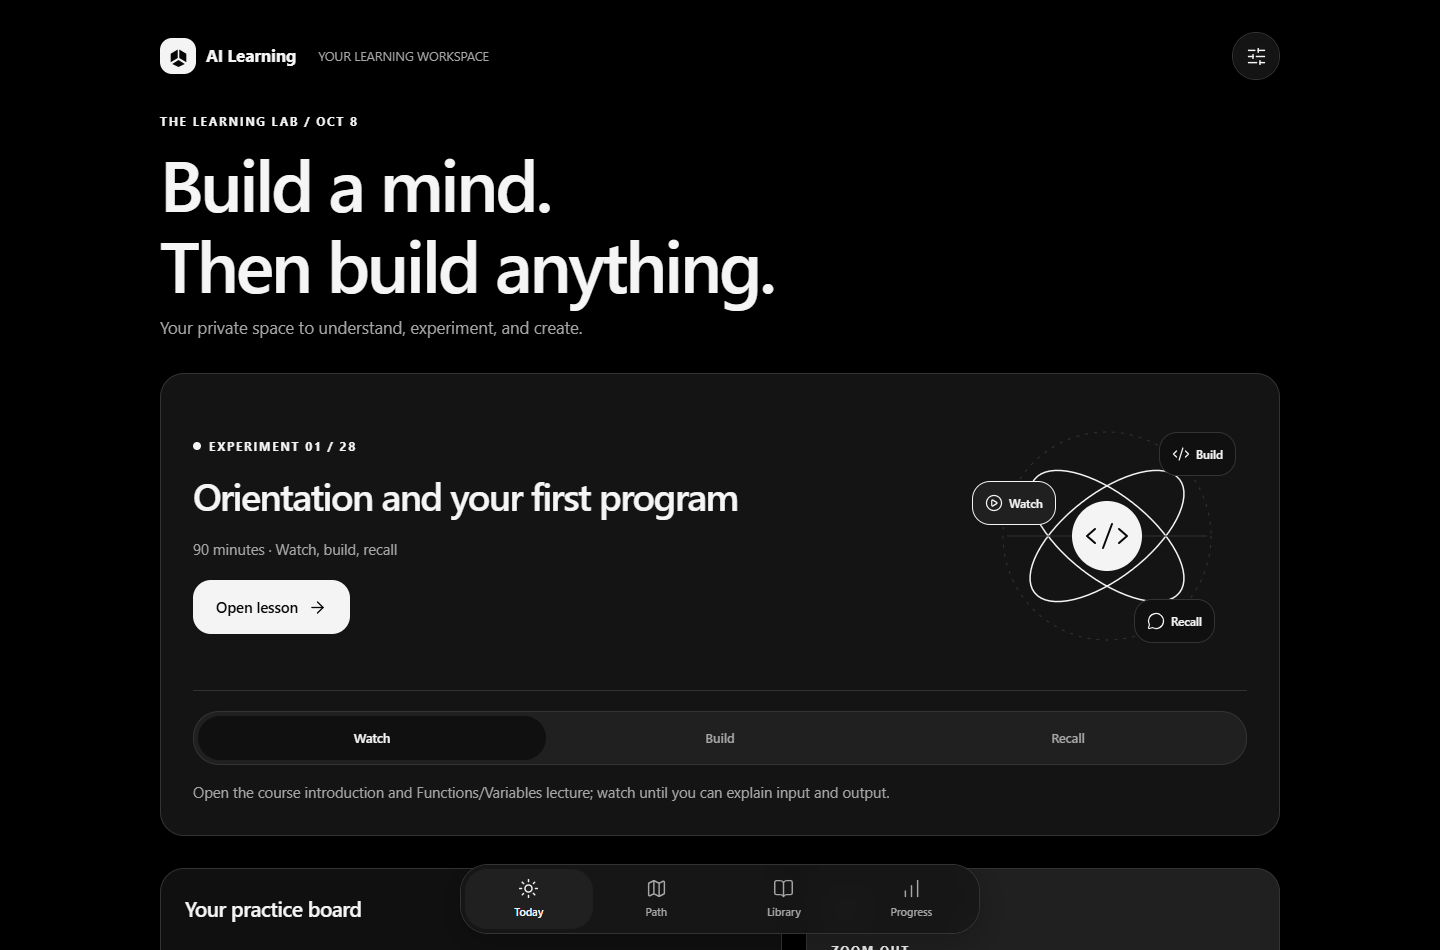
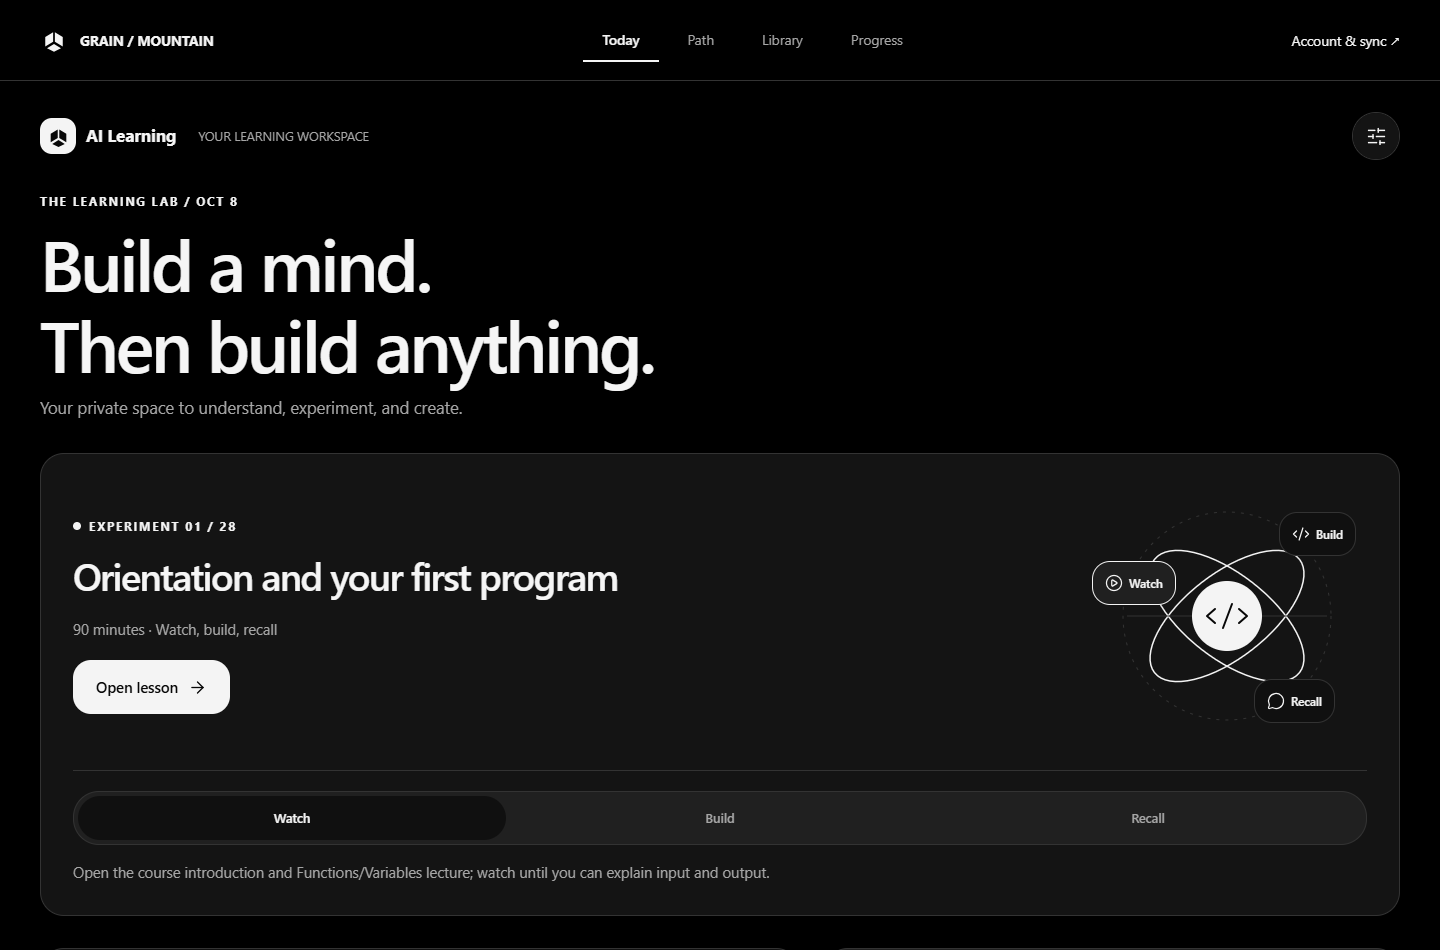
feat(web): add desktop navigation and refined account layout

diff --git a/learning-companion/src/app/account.tsx b/learning-companion/src/app/account.tsx
@@ -1,13 +1,15 @@
 import {useState} from 'react';
-import {TextInput,View} from 'react-native';
+import {TextInput,View,Pressable} from 'react-native';
 import {router} from 'expo-router';
-import {Button,Panel,Screen,Txt,inputStyle,usePalette} from '../components/ui';
+import {Button,Panel,Txt,inputStyle,usePalette} from '../components/ui';
+import {AccountLayout} from '../components/account-layout';
 import {useAuth} from '../lib/auth';
 import {supabase,accountRedirect} from '../lib/supabase';
 import {useLearning} from '../lib/store';
 export default function Account(){
  const c=usePalette(),auth=useAuth(),learning=useLearning();
  const [mode,setMode]=useState<'signin'|'signup'|'reset'>('signin'),[email,setEmail]=useState(''),[password,setPassword]=useState(''),[busy,setBusy]=useState(false),[message,setMessage]=useState(''),[confirm,setConfirm]=useState(false);
+ const [showPassword,setShowPassword]=useState(false);
  const run=async(action:()=>Promise<void>)=>{setBusy(true);setMessage('');try{await action();}catch(e){setMessage(e instanceof Error?e.message:'The request failed. Please try again.');}finally{setBusy(false);}};
  const submit=()=>run(async()=>{
   if(!supabase)throw new Error('Accounts are not connected yet. Your local notebook still works.');
@@ -18,7 +20,7 @@ export default function Account(){
   if(mode==='signup'){const {data,error}=await supabase.auth.signUp({email:email.trim(),password,options:{emailRedirectTo:accountRedirect}});if(error)throw error;setPassword('');if(data.session)router.replace('/today');else setMessage('Check your email to confirm your account, then sign in.');}
   else{const {error}=await supabase.auth.signInWithPassword({email:email.trim(),password});if(error)throw error;setPassword('');router.replace('/today');}
  });
- return <Screen back action={false} title={auth.session&&!auth.recovery?'Your account':auth.recovery?'Choose a new password':mode==='signup'?'A place for your progress.':mode==='reset'?'Reset your password.':'Pick up where you left off.'} subtitle="Your notebook, connected across devices.">
+ return <AccountLayout title={auth.session&&!auth.recovery?'Your account':auth.recovery?'Choose a new password':mode==='signup'?'Create your account':mode==='reset'?'Reset your password':'Welcome back'} subtitle={mode==='signup'?'Start a notebook for your learning journey.':'Pick up your learning where you left off.'}>
  {!supabase&&<Panel><Txt weight="600">Accounts are being connected</Txt><Txt>The sign-in service is not configured yet. Continue with your local notebook; existing progress is preserved.</Txt><Button title="Continue locally" onPress={()=>router.replace('/today')}/></Panel>}
  {!!auth.error&&<Txt accessibilityRole="alert">{auth.error}</Txt>}
  {auth.session&&!auth.recovery?<>
@@ -28,11 +30,11 @@ export default function Account(){
  <Button title="Sign out on this device" secondary disabled={busy} onPress={()=>void run(async()=>{const {error}=await supabase!.auth.signOut({scope:'local'});if(error)throw error;router.replace('/today');})}/><Txt size={13} color={c.muted}>Unsynced edits remain in this account’s local notebook. Sign back in on this device to retry.</Txt>
  </>:<Panel>
  {!auth.recovery&&<View style={{gap:8}}><Txt size={14}>Email</Txt><TextInput accessibilityLabel="Email" autoCapitalize="none" autoCorrect={false} keyboardType="email-address" autoComplete="email" value={email} onChangeText={setEmail} style={inputStyle(c)}/></View>}
- {(mode!=='reset'||auth.recovery)&&<View style={{gap:8}}><Txt size={14}>{auth.recovery?'New password':'Password'}</Txt><TextInput accessibilityLabel="Password" secureTextEntry autoCapitalize="none" autoComplete={mode==='signin'?'current-password':'new-password'} value={password} onChangeText={setPassword} style={inputStyle(c)} onSubmitEditing={()=>void submit()}/></View>}
+ {(mode!=='reset'||auth.recovery)&&<View style={{gap:8}}><View style={{flexDirection:'row',justifyContent:'space-between',alignItems:'center'}}><Txt size={14}>{auth.recovery?'New password':'Password'}</Txt><Pressable accessibilityRole="button" accessibilityLabel={showPassword?'Hide password':'Show password'} onPress={()=>setShowPassword(v=>!v)} style={{minHeight:44,justifyContent:'center'}}><Txt size={12} color={c.muted}>{showPassword?'Hide':'Show'}</Txt></Pressable></View><TextInput accessibilityLabel="Password" secureTextEntry={!showPassword} autoCapitalize="none" autoComplete={mode==='signin'?'current-password':'new-password'} value={password} onChangeText={setPassword} style={inputStyle(c)} onSubmitEditing={()=>void submit()}/></View>}
  <Button title={busy?'Please wait…':auth.recovery?'Save new password':mode==='signup'?'Create account':mode==='reset'?'Send reset link':'Sign in'} disabled={busy||!supabase} onPress={()=>void submit()}/>
  {!auth.recovery&&<><Button title={mode==='signin'?'Create an account':'Back to sign in'} secondary disabled={busy} onPress={()=>{setMode(mode==='signin'?'signup':'signin');setMessage('');}}/>{mode==='signin'&&<Button title="Forgot password?" secondary disabled={busy} onPress={()=>{setMode('reset');setPassword('');}}/>}</>}
  </Panel>}
  {!!message&&<Txt accessibilityLiveRegion="polite">{message}</Txt>}
  <Button title="Open learning app" secondary onPress={()=>router.replace('/today')}/><Button title="Privacy & your data" secondary onPress={()=>router.push('/privacy')}/>
- </Screen>;
+ </AccountLayout>;
 }

diff --git a/learning-companion/src/components/ui.tsx b/learning-companion/src/components/ui.tsx
@@ -5,7 +5,7 @@ import { BlurView } from 'expo-blur';
 import {ArrowRight,ArrowUpRight,BookOpen,Layers,Map,Sun,ChartNoAxesColumnIncreasing,SlidersHorizontal,Check,CheckCircle2,ChevronLeft,ChevronRight,Code2,Compass,Bell,Share2,ExternalLink,Search,FileText,GraduationCap,Lightbulb,LockKeyhole,Circle,MessageCircle,PlayCircle,Plus,Minus,Timer,FlaskConical} from 'lucide-react-native';
 import {BrandMark} from './brand';
 import {MotionPress,Reveal,MovingProgress} from './motion';
-import { router } from 'expo-router';
+import { router, usePathname } from 'expo-router';
 import { useLearning } from '../lib/store';
 export const light = { bg:'#F2F2F2',surface:'#FFFFFF',ink:'#111111',muted:'#606060',line:'#D6D6D6',accent:'#151515',soft:'#E8E8E8',onAccent:'#FFFFFF',danger:'#B42335',glass:'rgba(255,255,255,.86)',hero:'#EAEAEA' };
 export const dark = { bg:'#000000',surface:'#101010',ink:'#F5F5F5',muted:'#A6A6A6',line:'#333333',accent:'#F4F4F4',soft:'#202020',onAccent:'#080808',danger:'#FF8D9C',glass:'rgba(18,18,18,.90)',hero:'#141414' };
@@ -30,7 +30,8 @@ export function Button({title,onPress,secondary=false,disabled=false,icon,testID
 }
 export function Screen({ children, title, subtitle, back = false, action = true }: { children?: React.ReactNode; title?: string; subtitle?: string; back?: boolean; action?: boolean }) {
   const c = usePalette(), wide=useWide(), insets = useSafeAreaInsets(), { loaded, error, notice, dismiss } = useLearning();
-  return <View style={{ flex: 1, backgroundColor: c.bg, overflow: 'hidden' }}><ScrollView keyboardShouldPersistTaps="handled" contentInsetAdjustmentBehavior="automatic" contentContainerStyle={{ paddingTop: insets.top + (wide?32:16), paddingBottom: insets.bottom + 128, paddingHorizontal: wide?40:20, width: '100%', maxWidth: back?900:1200, alignSelf: 'center', gap: wide?32:24 }}>
+  const pathname=usePathname(),desktopTabs=Platform.OS==='web'&&wide&&['/today','/path','/library','/progress'].includes(pathname);
+  return <View style={{ flex: 1, backgroundColor: c.bg, overflow: 'hidden' }}><ScrollView keyboardShouldPersistTaps="handled" contentInsetAdjustmentBehavior="automatic" contentContainerStyle={{ paddingTop: insets.top + (desktopTabs?112:wide?32:16), paddingBottom: insets.bottom + (desktopTabs?48:128), paddingHorizontal: wide?40:20, width: '100%', maxWidth: back?900:1480, alignSelf: 'center', gap: wide?32:24 }}>
     <View style={styles.row}>{back ? <Glass style={{borderRadius:24}}><Pressable accessibilityRole="button" accessibilityLabel="Back" onPress={() => router.canGoBack() ? router.back() : router.replace('/today')} style={[styles.iconButton,{flexDirection:'row',paddingHorizontal:16,gap:6}]}><Icon name="chevron-back" size={18} /><Txt size={14} weight="600">Back</Txt></Pressable></Glass> : <View style={{flexDirection:'row',alignItems:'center',gap:10}}><View style={{width:36,height:36,borderRadius:12,backgroundColor:c.accent,alignItems:'center',justifyContent:'center'}}><BrandMark size={25} color={c.onAccent}/></View><Txt size={17} weight="700">AI Learning</Txt>{wide && <Txt size={13} color={c.muted} style={{marginLeft:12}}>YOUR LEARNING WORKSPACE</Txt>}</View>}{action && <Glass style={{borderRadius:24}}><Pressable accessibilityRole="button" accessibilityLabel="Settings" onPress={() => router.push('/settings')} style={styles.iconButton}><Icon name="options-outline" size={21}/></Pressable></Glass>}</View>
     {!!title && <View style={{ gap: 8, maxWidth:740 }}><Txt size={wide?52:36} weight="700" accessibilityRole="header">{title}</Txt>{!!subtitle && <Txt color={c.muted} size={wide?18:16}>{subtitle}</Txt>}</View>}
     {!!error && <Pressable accessibilityRole="button" accessibilityLabel="Dismiss error" onPress={dismiss} style={{ padding: 16, borderWidth: 1, borderColor: c.danger, borderRadius: 16 }}><Txt color={c.danger}>{error}</Txt></Pressable>}

diff --git a/learning-companion/src/app/(tabs)/_layout.tsx b/learning-companion/src/app/(tabs)/_layout.tsx
@@ -1,13 +1,16 @@
-import {Tabs} from 'expo-router';
-import {View} from 'react-native';
+import {Tabs,router} from 'expo-router';
+import {View,Platform,Pressable} from 'react-native';
 import type {ComponentProps} from 'react';
 
 import {useSafeAreaInsets} from 'react-native-safe-area-context';
-import {Glass,Icon,Txt,usePalette} from '../../components/ui';
+import {Glass,Icon,Txt,usePalette,useWide} from '../../components/ui';
+import {BrandMark} from '../../components/brand';
 import {MotionPress,SlidingSelection} from '../../components/motion';
 type BottomTabBarProps=Parameters<NonNullable<ComponentProps<typeof Tabs>['tabBar']>>[0];
 function WorkshopDock({state,descriptors,navigation}:BottomTabBarProps) {
  const c=usePalette(),insets=useSafeAreaInsets(),icons=['sunny-outline','map-outline','book-outline','stats-chart-outline'];
+ const wide=useWide();
+ if(Platform.OS==='web'&&wide)return <View style={{position:'absolute',top:0,left:0,right:0,backgroundColor:c.bg,borderBottomWidth:1,borderColor:c.line}}><View style={{width:'100%',maxWidth:1480,alignSelf:'center',paddingHorizontal:40,minHeight:80,flexDirection:'row',alignItems:'center',justifyContent:'space-between',gap:24}}><Pressable accessibilityRole="link" accessibilityLabel="Product homepage" onPress={()=>router.push('/')} style={{flexDirection:'row',alignItems:'center',gap:12,minHeight:44}}><BrandMark size={28} color={c.ink}/><Txt size={14} weight="700">GRAIN / MOUNTAIN</Txt></Pressable><View style={{flexDirection:'row',gap:8}}>{state.routes.map((route,i)=><Pressable key={route.key} accessibilityRole="tab" accessibilityLabel={descriptors[route.key].options.title} accessibilityState={{selected:i===state.index}} onPress={()=>navigation.navigate(route.name,route.params)} style={{minHeight:44,paddingHorizontal:20,justifyContent:'center',borderBottomWidth:2,borderColor:i===state.index?c.ink:'transparent'}}><Txt size={14} weight={i===state.index?'600':'400'} color={i===state.index?c.ink:c.muted}>{descriptors[route.key].options.title}</Txt></Pressable>)}</View><Pressable accessibilityRole="link" onPress={()=>router.push('/account')} style={{minHeight:44,justifyContent:'center'}}><Txt size={14}>Account & sync ↗</Txt></Pressable></View></View>;
  return <View pointerEvents="box-none" style={{position:'absolute',bottom:Math.max(16,insets.bottom),left:16,right:16,alignItems:'center'}}><Glass style={{width:'100%',maxWidth:520,borderRadius:28,padding:4}}><SlidingSelection index={state.index} count={state.routes.length} color={c.soft}/><View style={{flexDirection:'row'}}>{state.routes.map((route,i)=>{const selected=i===state.index,options=descriptors[route.key].options;return <MotionPress key={route.key} accessibilityRole="tab" accessibilityLabel={options.title??route.name} accessibilityState={{selected}} onPress={()=>{const event=navigation.emit({type:'tabPress',target:route.key,canPreventDefault:true});if(!selected&&!event.defaultPrevented)navigation.navigate(route.name,route.params);}} onLongPress={()=>navigation.emit({type:'tabLongPress',target:route.key})} style={{flex:1,minHeight:60,alignItems:'center',justifyContent:'center',gap:5}}><Icon name={icons[i]} color={selected?c.accent:c.muted} size={21}/><Txt size={11} weight="600" color={selected?c.accent:c.muted}>{options.title}</Txt></MotionPress>;})}</View></Glass></View>;
 }
 export default function TabLayout(){return <Tabs tabBar={props=><WorkshopDock {...props}/>} screenOptions={{headerShown:false}}><Tabs.Screen name="today" options={{title:'Today'}}/><Tabs.Screen name="path" options={{title:'Path'}}/><Tabs.Screen name="library" options={{title:'Library'}}/><Tabs.Screen name="progress" options={{title:'Progress'}}/></Tabs>;}

diff --git a/learning-companion/src/components/account-layout.tsx b/learning-companion/src/components/account-layout.tsx
@@ -1,0 +1,17 @@
+import type {ReactNode} from 'react';
+import {Platform,Pressable,ScrollView,View} from 'react-native';
+import {router} from 'expo-router';
+import {BrandMark} from './brand';
+import {Screen,Txt,usePalette,useWide} from './ui';
+import {useLearning} from '../lib/store';
+export function AccountLayout({title,subtitle,children}:{title:string;subtitle:string;children:ReactNode}){
+ const c=usePalette(),wide=useWide(),{error,notice,dismiss}=useLearning();
+ if(Platform.OS!=='web')return <Screen back action={false} title={title} subtitle={subtitle}>{children}</Screen>;
+ return <ScrollView keyboardShouldPersistTaps="handled" style={{flex:1,backgroundColor:c.bg}} contentContainerStyle={{width:'100%',maxWidth:1320,alignSelf:'center',paddingHorizontal:wide?56:24,paddingTop:28,paddingBottom:48,gap:wide?72:36}}>
+ <View style={{flexDirection:'row',justifyContent:'space-between',alignItems:'center',gap:20}}><Pressable accessibilityRole="link" accessibilityLabel="Grain to Mountain homepage" onPress={()=>router.push('/')} style={{flexDirection:'row',gap:12,alignItems:'center',minHeight:44}}><BrandMark size={30} color={c.ink}/><Txt size={14} weight="700">GRAIN / MOUNTAIN</Txt></Pressable><Pressable accessibilityRole="link" onPress={()=>router.push('/today')} style={{minHeight:44,justifyContent:'center'}}><Txt size={14} color={c.muted}>Explore the workspace ↗</Txt></Pressable></View>
+ <View style={{flexDirection:wide?'row':'column',gap:wide?96:32,alignItems:'flex-start'}}>
+ {wide&&<View style={{flex:1,paddingTop:48,gap:32}}><Txt size={12} color={c.muted} style={{letterSpacing:2}}>YOUR NEXT CHAPTER</Txt><Txt size={64} weight="600">A little further.{`\n`}Every day.</Txt><Txt size={19} color={c.muted} style={{maxWidth:400}}>A place for your curiosity, your experiments, and the things you can now explain.</Txt><View style={{gap:20,borderTopWidth:1,borderColor:c.line,paddingTop:28}}>{[['01','One clear next step'],['02','Your learning, at your pace'],['03','A notebook that grows with you']].map(([number,label])=><View key={number} style={{flexDirection:'row',gap:18}}><Txt size={13} color={c.muted}>{number}</Txt><Txt size={15}>{label}</Txt></View>)}</View><BrandMark size={150} color={c.line}/></View>}
+ <View style={{width:'100%',maxWidth:wide?440:undefined,flexShrink:1,gap:24,paddingTop:wide?48:0}}><View style={{gap:12}}><Txt size={wide?32:30} weight="600" accessibilityRole="header">{title}</Txt><Txt size={15} color={c.muted}>{subtitle}</Txt></View>{!!(error||notice)&&<Pressable accessibilityRole="button" accessibilityLabel="Dismiss notebook message" onPress={dismiss} style={{padding:16,borderWidth:1,borderColor:error?c.danger:c.line,borderRadius:16}}><Txt size={14} color={error?c.danger:c.ink}>{error||notice}</Txt></Pressable>}{children}</View>
+ </View><View style={{borderTopWidth:1,borderColor:c.line,paddingTop:24,flexDirection:'row',justifyContent:'space-between',gap:16,flexWrap:'wrap'}}><Txt size={12} color={c.muted}>Small steps. Serious depth.</Txt><Pressable accessibilityRole="link" onPress={()=>router.push('/privacy')} style={{minHeight:44}}><Txt size={12} color={c.muted}>Privacy & your data</Txt></Pressable></View>
+ </ScrollView>;
+}

diff --git a/supabase/README.md b/supabase/README.md
@@ -1,13 +1,15 @@
-# Accounts and notebook sync — setup pending
+# Accounts and notebook sync — integration in progress
 
-The client implementation is prepared. No hosted Supabase project or schema has been created yet. OAuth authorization succeeded on 8 October 2026 for the official `https://mcp.supabase.com/mcp` connection, but the running Codex session cannot load newly registered MCP tools until refreshed. Resume project provisioning after reloading Codex; do not mistake OAuth success for a working backend.
+The dedicated **Grain to Mountain** project was created on 8 October 2026 in **Khubaib7-del's Org**, region **ap-south-1**, at the quoted cost of **$0/month**. Project reference: `pftnuyrgczlxeidhipmu`. The notebook migration is applied and the ignored local environment is configured with the public client settings.
+
+Database transaction checks passed for owner isolation, stale revision rejection and malformed payload rejection. Test fixtures were rolled back. Anonymous reads/writes and direct authenticated updates are not granted. These checks do not establish working email delivery or cross-device authentication.
 
 ## Next implementation steps
 
-1. List organizations/projects through the connected Supabase tools. Create a dedicated free project if available; check the quoted cost before creation. Do not change an unrelated project or purchase a paid plan.
-2. Apply `migrations/202610080001_notebooks.sql`. Test actual authenticated and unauthenticated access: account A cannot read/write B, stale revision writes fail, concurrent first writes serialize, oversized/malformed payloads fail.
+1. Project provisioning is complete. Keep this dedicated project separate from unrelated projects; do not purchase a paid plan without authorization.
+2. Migration is applied. Ownership, stale revision and malformed payload checks passed with transaction fixtures. Still test concurrent first writes and oversized payload rejection.
 3. Configure the auth site URL as `https://ai-engineering-grain-to-mountain.vercel.app` and allow `/account` as a confirmation/recovery redirect. Keep email confirmation enabled. Public signup requires a verified email delivery setup: the default Supabase sender is restricted and is not a production SMTP service. Do not claim anyone can sign up until tested.
-4. Add the project URL and **publishable** key as `EXPO_PUBLIC_SUPABASE_URL` and `EXPO_PUBLIC_SUPABASE_PUBLISHABLE_KEY` in Vercel and in the app's ignored `.env.local` for builds. These are public client settings; never put service-role keys, database passwords or SMTP credentials into Expo variables or Git.
+4. Add the project URL and **publishable** key as `EXPO_PUBLIC_SUPABASE_URL` and `EXPO_PUBLIC_SUPABASE_PUBLISHABLE_KEY` in Vercel; the app's ignored `.env.local` is configured for local builds. These are public client settings; never put service-role keys, database passwords or SMTP credentials into Expo variables or Git.
 5. Test sign-up/confirmation/sign-in/password recovery, two independent clients syncing one account, offline changes/reconnection, conflicting edits, switching users and guest import against the real backend. Add integration coverage. The current tests cover policy decisions and storage isolation, not real authentication/RLS.
 6. Update the public copy after verification. Build a new Android package with these settings and SecureStore; the 1.0 APK remains local-only. iOS still needs signing and a device test. Native account screens have not been simulator-tested yet.
 
@@ -22,3 +24,7 @@ Concurrent changes require an explicit choice of cloud or device snapshot. This 
 The public product homepage is `/`; Today moved to `/today`. Existing `/path`, `/library`, `/progress`, `/session/:id` and `/module/:id` routes remain. `/download` links the existing local-only Android prerelease and labels iOS as coming soon. `/account` is disabled honestly until client configuration exists. The production website remains on the earlier release while the new backend is unverified.
 
 Sources: [Supabase React Native auth](https://supabase.com/docs/guides/auth/quickstarts/react-native), [password flows](https://supabase.com/docs/guides/auth/passwords), [row-level security](https://supabase.com/docs/guides/database/postgres/row-level-security), [Expo SecureStore](https://docs.expo.dev/versions/latest/sdk/securestore/).
+
+
+The security advisor reports the intentionally authenticated SECURITY DEFINER write endpoint. It remains an explicit ownership-checked interface; generic callers cannot write other users' notebooks. Review: https://supabase.com/docs/guides/database/database-linter?lint=0029_authenticated_security_definer_function_executable
+

diff --git a/learning-companion/VALIDATION.md b/learning-companion/VALIDATION.md
@@ -80,3 +80,10 @@ Added public homepage/download/privacy routes, moved Today to `/today`, and prep
 Typecheck, lint, ten tests and web export passed (4.7 MB JS before compression). Browser checks passed desktop/mobile product/account/download/Today routes, unavailable-backend messaging, guest navigation, overflow, runtime errors, existing lesson/progress/backup flows and guided resource links. Visually inspected the desktop homepage and mobile account screen. Captures: `design/shots/product/`.
 
 These tests ran without a Supabase backend. Hosted schema/RLS, real email/signup/recovery, real cross-device sync, native secure session storage and native account navigation are unverified. Supabase OAuth is authorized but this running session requires a reload to access its tools. See `../supabase/README.md` for the exact next steps. Do not promote this as completed account support or rebuild an APK with unconfigured account settings.
+
+## 8 October — accounts and desktop refinement
+Supabase project provisioned and migration applied. Transaction tests rejected stale writes, wrong-owner writes and malformed payloads; a second account saw zero rows. Anonymous read/write and direct client update grants are absent. Security advisor flags the deliberately authenticated SECURITY DEFINER write RPC; it checks auth.uid ownership, uses an empty search_path and restricts execution. Email flows and full cross-client/native sync remain unverified. Desktop top navigation and split sign-in composition implemented; lint/typecheck and web export passed. Local public environment is ignored by Git.
+
+
+Configured product browser checks passed at widths 390 and 1440: account page, guest entry, product/download routes, no horizontal overflow and no runtime exceptions. Screenshot reviewed: design/shots/product/1440-account.png. No live signup/password recovery or mobile sync claim is made.
+
